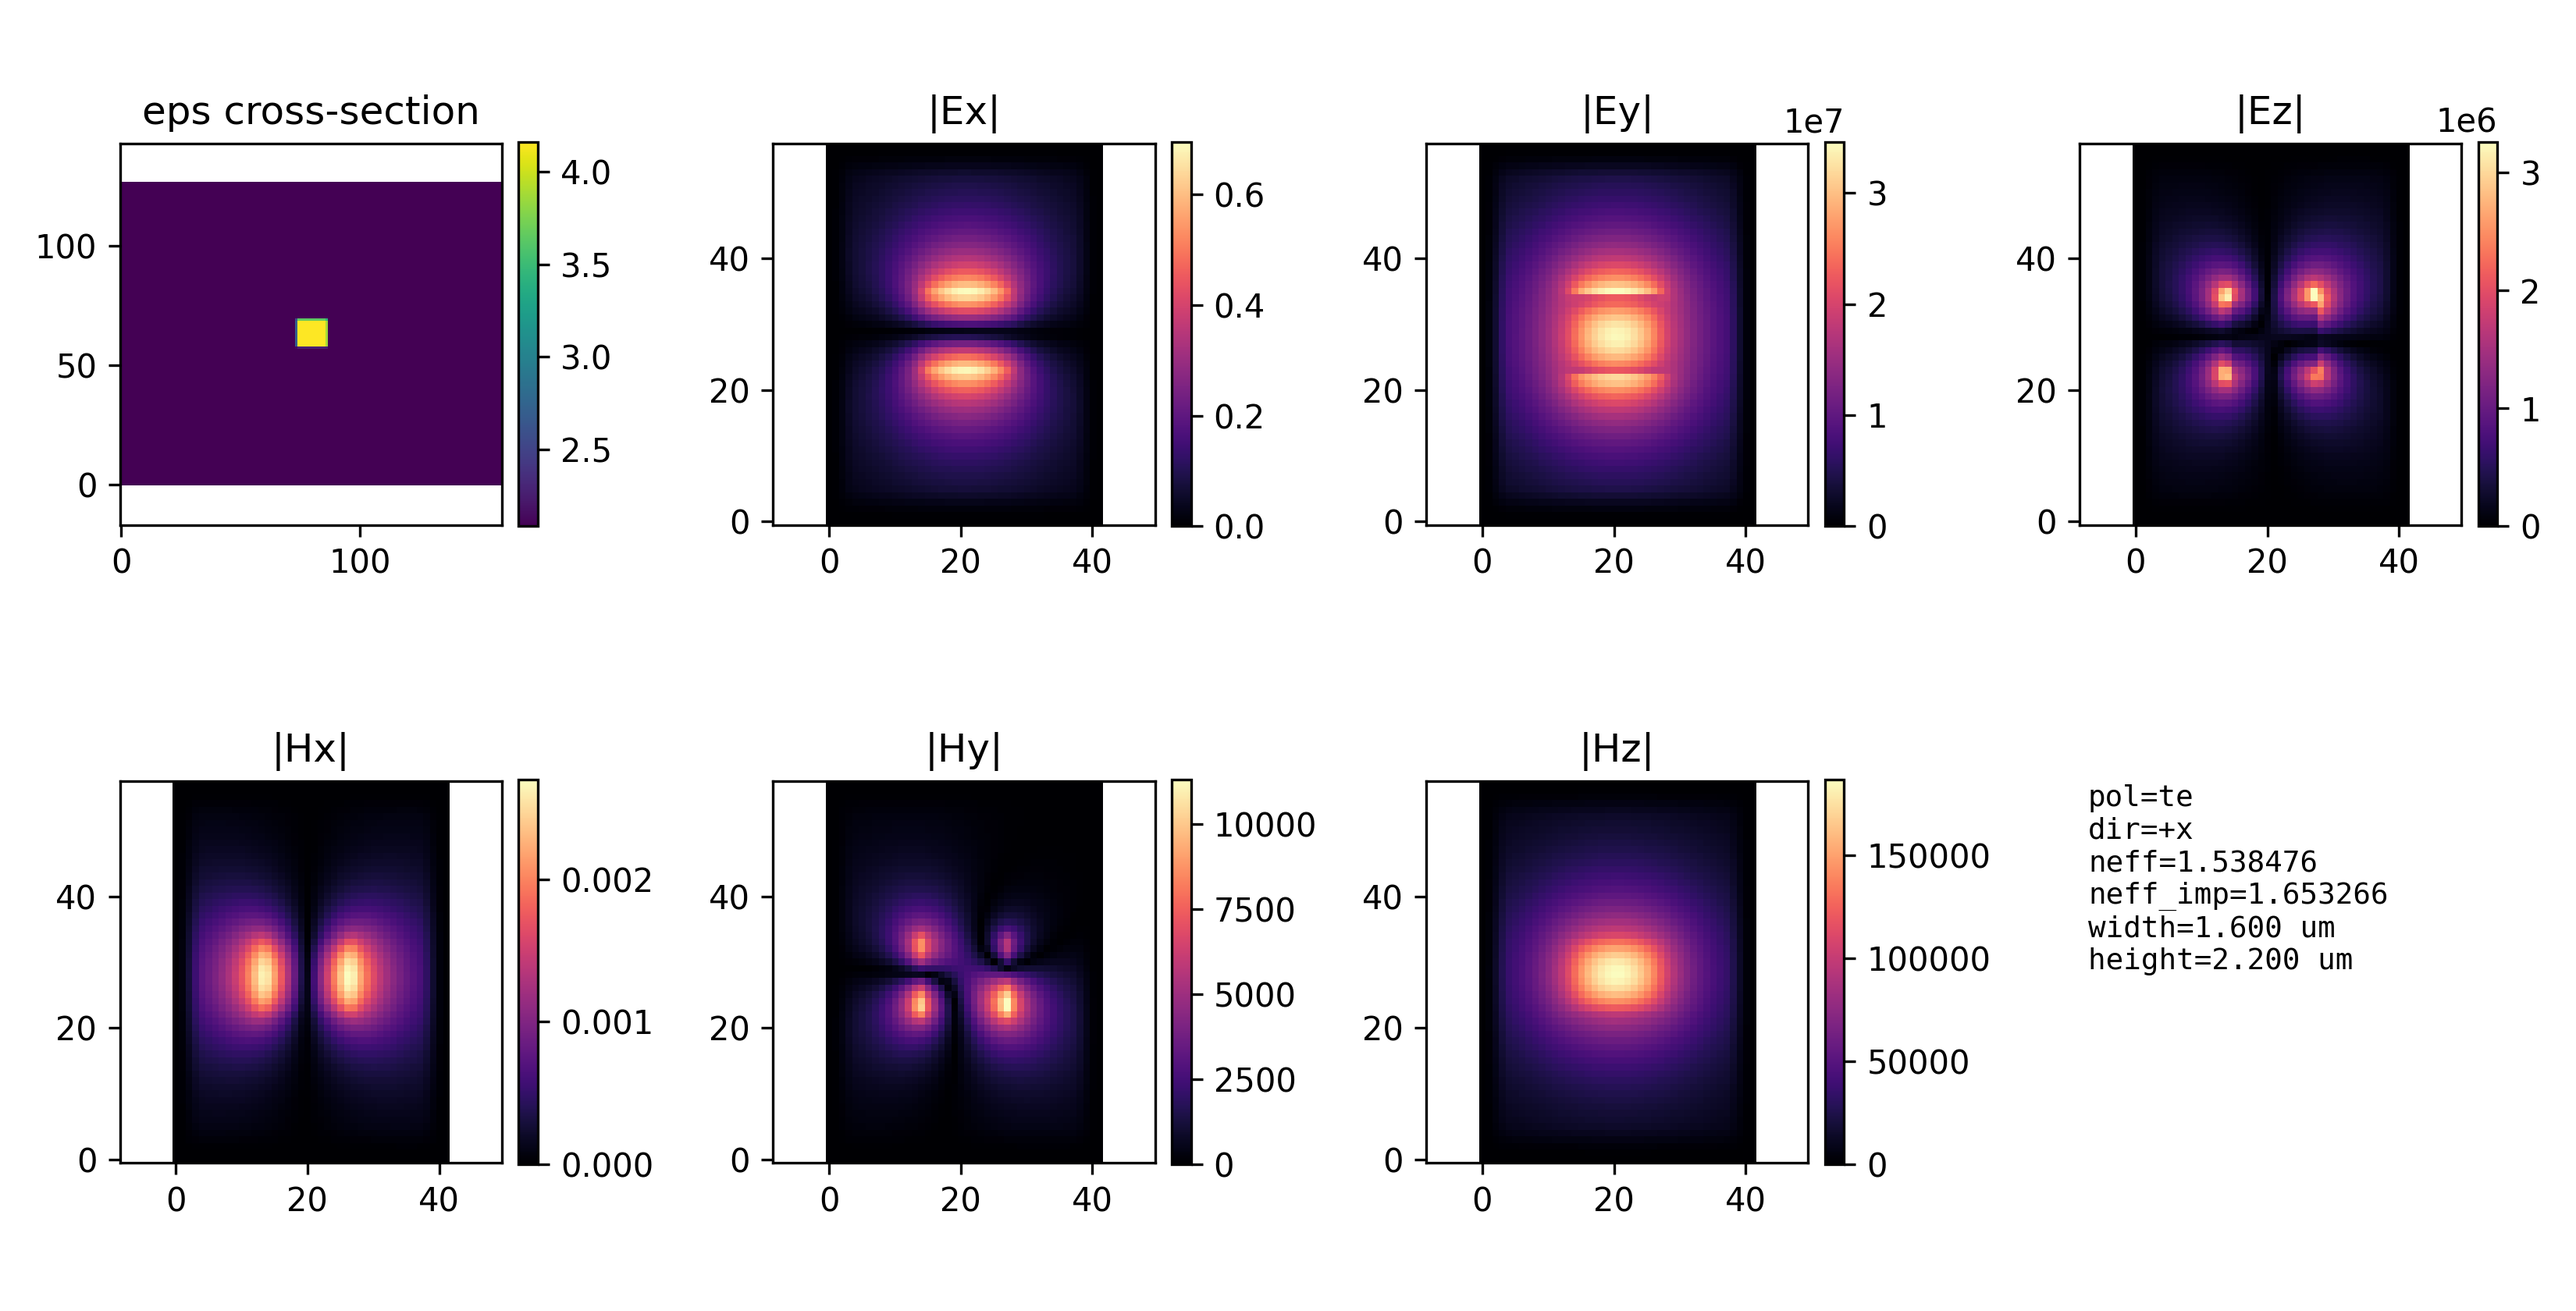
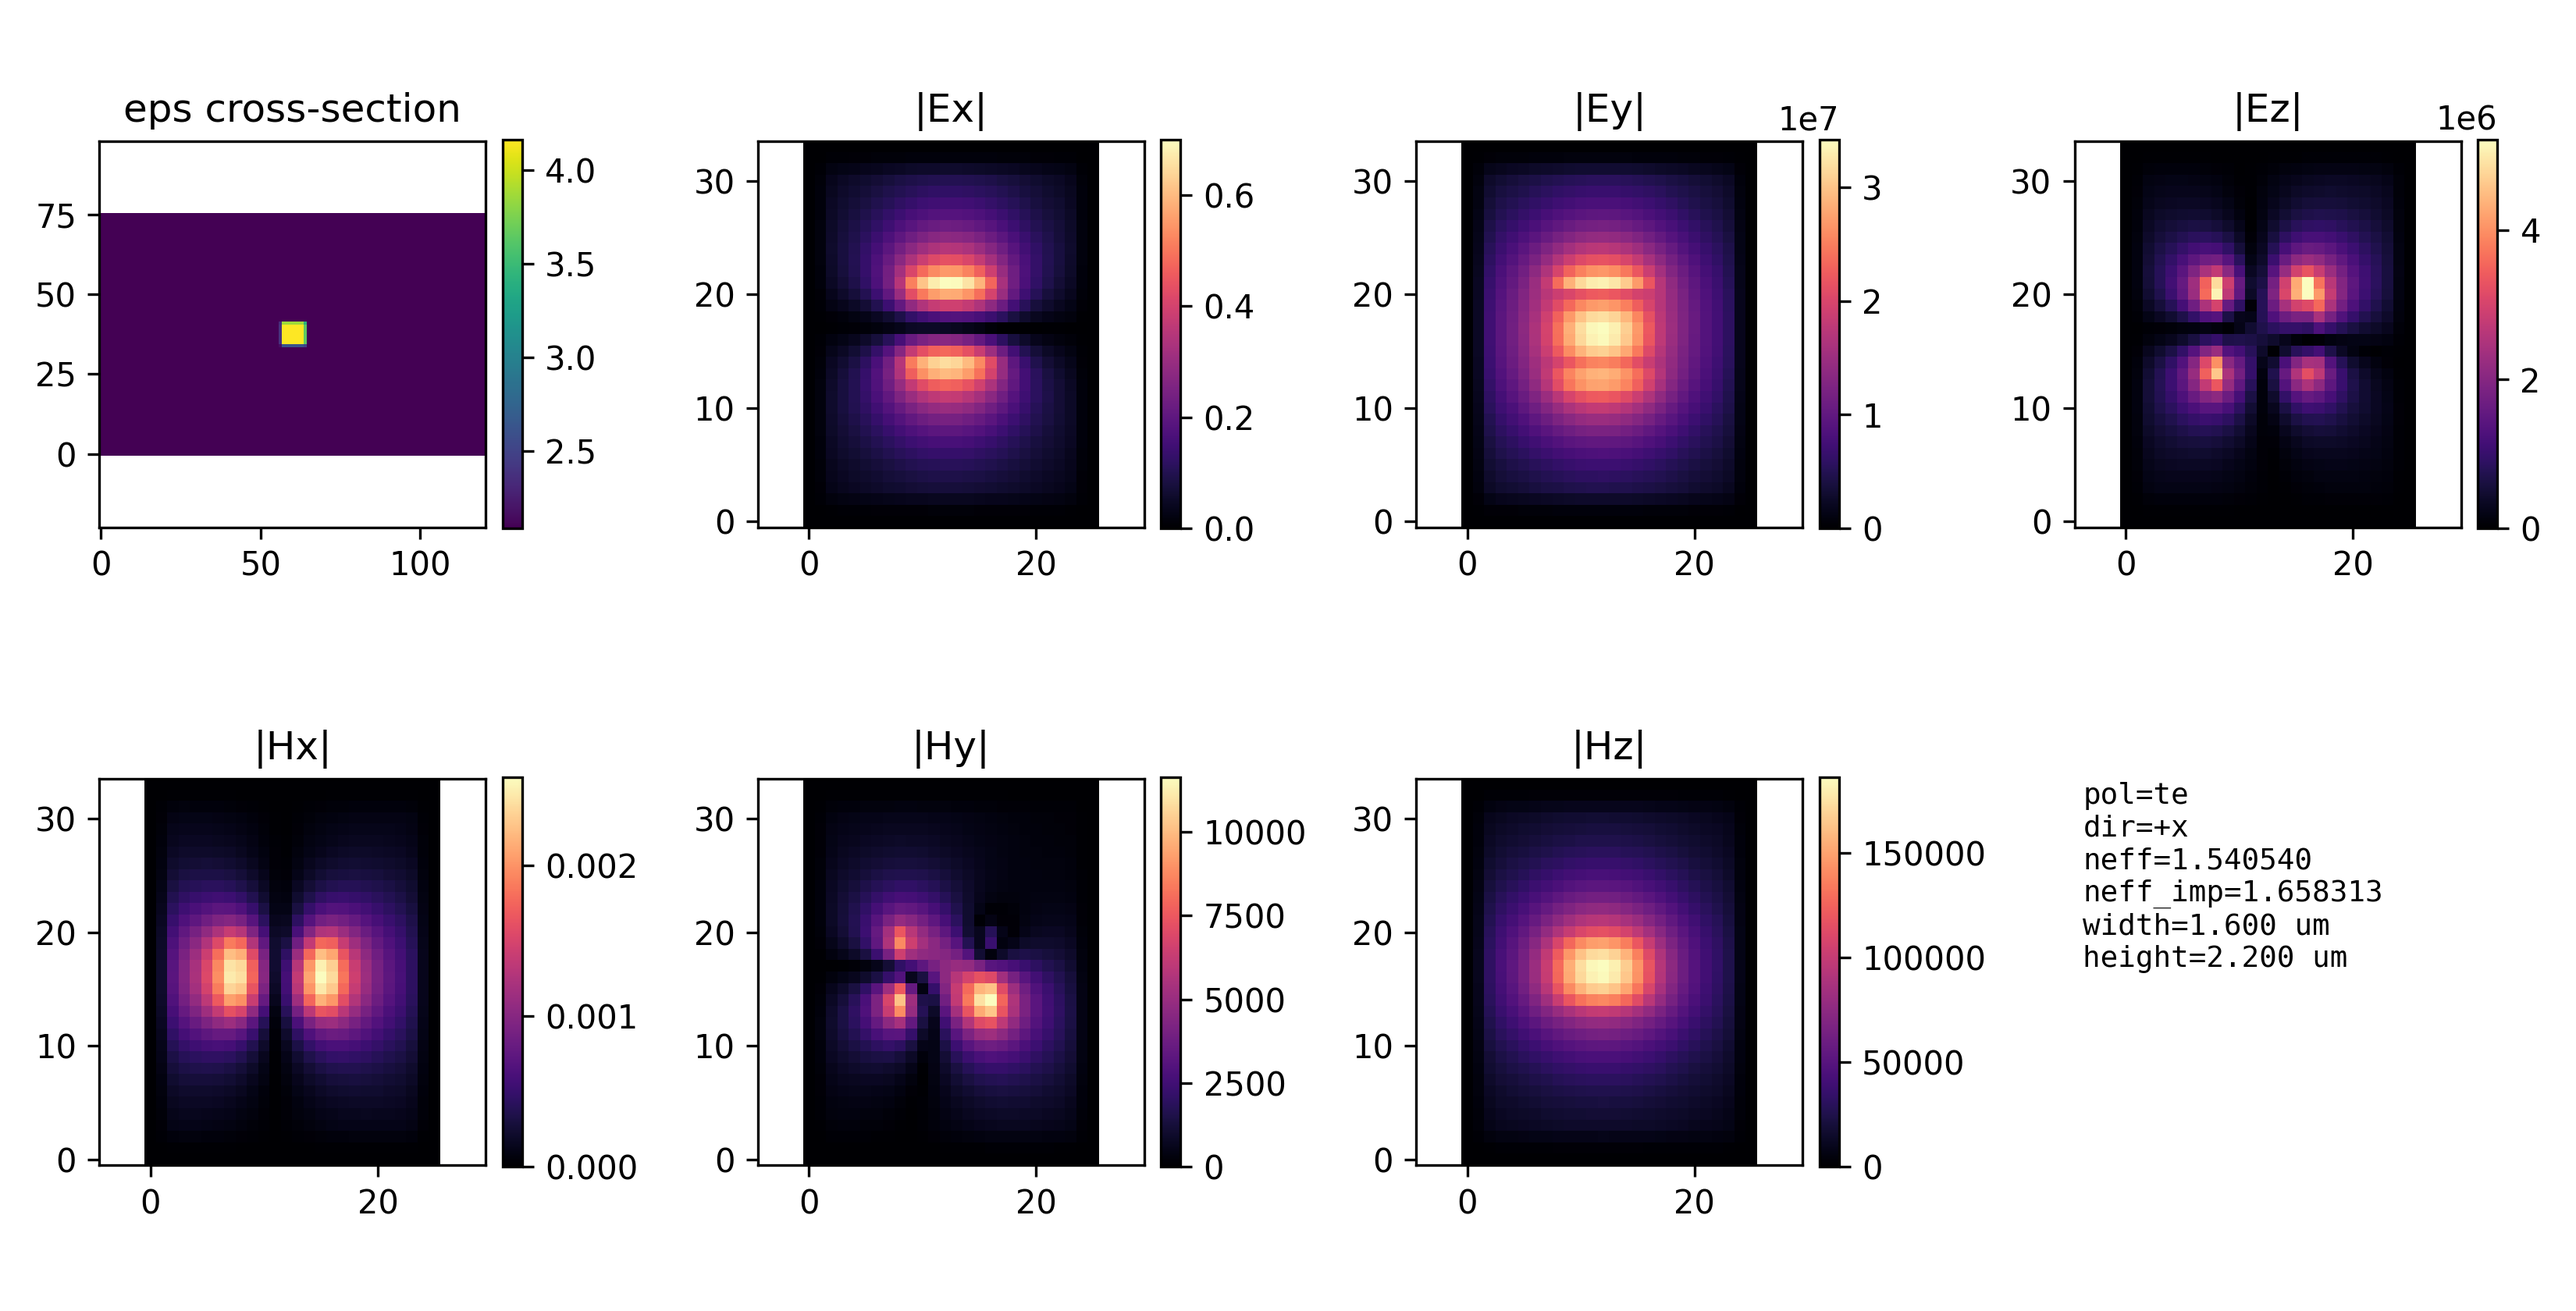
Increase height.

diff --git a/examples/gdsf_to_sax_3d.py b/examples/gdsf_to_sax_3d.py
@@ -160,6 +160,7 @@ def main():
     out_png = out_dir / "gdsf_mmi1x2_3d_sparams.png"
     out_field_png = out_dir / "gdsf_mmi1x2_3d_ey_field_slices.png"
     out_mode_png = out_dir / "gdsf_mmi1x2_3d_mode_source.png"
+    out_signal_png = out_dir / "gdsf_mmi1x2_3d_signal.png"
 
     wl0 = 1.55 * µm
     f0 = LIGHT_SPEED / wl0
@@ -170,7 +171,7 @@ def main():
 
     input_extension = 5.0 * µm
     output_extension = 4.0 * µm
-    y_margin = 1.8 * µm
+    y_margin = 2.6 * µm
 
     clad_below = 2.2 * µm
     clad_above = 2.2 * µm
@@ -183,7 +184,7 @@ def main():
         n_max=n_core,
         dims=3,
         safety_factor=0.96,
-        points_per_wavelength=20,
+        points_per_wavelength=12,
     )
 
     imported_design, ports = gdsf.load(
@@ -305,29 +306,65 @@ def main():
             mon_xy[0], mon_xy[1], mon_y_span, core_zc, mon_z_span, z_min, z_max
         )
 
-    t_ramp = 12.0 / f0
-    dft_t_start = 52.0 / f0
-    dft_t_end = 88.0 / f0
-    t_total = 98.0 / f0
-    time = np.arange(0.0, t_total, dt)
-    envelope = 1.0 - np.exp(-((time / max(t_ramp, 1e-30)) ** 2))
-    source.signal = envelope * np.cos(2.0 * np.pi * f0 * time)
+    # Relatively short Gaussian pulse to launch broadband energy through the device.
+    pulse_t0 = 18.0 / f0
+    pulse_sigma = 4.0 / f0
 
-    dft_cfg = dict(
+    # Place DFT windows around estimated pulse arrival at each monitor plane.
+    # A conservative estimate based on core index is sufficient for this sanity test.
+    v_est = LIGHT_SPEED / n_core
+    t_fwd_center = pulse_t0 + abs(fwd_x - source_x) / max(v_est, 1e-30)
+    # Approximate dominant reflection from the MMI/taper entrance near input port x-position.
+    t_ref_center = pulse_t0 + (abs(x_port - source_x) + abs(x_port - ref_x)) / max(v_est, 1e-30)
+    t_o2_center = pulse_t0 + abs(float(out_planes["o2"][0][0]) - float(source_x)) / max(v_est, 1e-30)
+    t_o3_center = pulse_t0 + abs(float(out_planes["o3"][0][0]) - float(source_x)) / max(v_est, 1e-30)
+    dft_half = 10.0 / f0
+
+    def centered_window(tc):
+        return max(0.0, tc - dft_half), tc + dft_half
+
+    dft_fwd_t_start, dft_fwd_t_end = centered_window(t_fwd_center)
+    dft_ref_t_start, dft_ref_t_end = centered_window(t_ref_center)
+    dft_o2_t_start, dft_o2_t_end = centered_window(t_o2_center)
+    dft_o3_t_start, dft_o3_t_end = centered_window(t_o3_center)
+
+    t_total = max(dft_ref_t_end, dft_o2_t_end, dft_o3_t_end) + 18.0 / f0
+    time = np.arange(0.0, t_total, dt)
+
+    source.signal = np.exp(-0.5 * ((time - pulse_t0) / max(pulse_sigma, 1e-30)) ** 2) * np.cos(
+        2.0 * np.pi * f0 * (time - pulse_t0)
+    )
+    fig_sig, ax_sig = plt.subplots(1, 1, figsize=(6.6, 2.5), dpi=240)
+    ax_sig.plot(time / 1e-15, source.signal, color="black", lw=1.6)
+    ax_sig.set_title("Mode Source Signal (Short Gaussian Pulse)")
+    ax_sig.set_xlabel("time (fs)")
+    ax_sig.set_ylabel("amplitude")
+    ax_sig.grid(alpha=0.3)
+    fig_sig.tight_layout()
+    fig_sig.savefig(out_signal_png, dpi=320)
+    plt.close(fig_sig)
+    print(
+        f"Saved signal figure: {out_signal_png} "
+        f"(t0={pulse_t0*f0:.1f}/f0, sigma={pulse_sigma*f0:.1f}/f0)"
+    )
+
+    dft_cfg_common = dict(
         record_fields=False,
         dft_enabled=True,
         dft_frequencies=[f0],
         dft_components=("Ey", "Ez", "Hy", "Hz"),
         dft_window="hann",
-        dft_t_start=dft_t_start,
-        dft_t_end=dft_t_end,
         dft_record_every_step=True,
     )
+    dft_fwd_cfg = dict(dft_cfg_common, dft_t_start=dft_fwd_t_start, dft_t_end=dft_fwd_t_end)
+    dft_ref_cfg = dict(dft_cfg_common, dft_t_start=dft_ref_t_start, dft_t_end=dft_ref_t_end)
+    dft_o2_cfg = dict(dft_cfg_common, dft_t_start=dft_o2_t_start, dft_t_end=dft_o2_t_end)
+    dft_o3_cfg = dict(dft_cfg_common, dft_t_start=dft_o3_t_start, dft_t_end=dft_o3_t_end)
 
-    m_fwd = Monitor(start=fwd_start, end=fwd_end, name="o1_fwd", **dft_cfg)
-    m_ref = Monitor(start=ref_start, end=ref_end, name="o1_ref", **dft_cfg)
-    m_o2 = Monitor(start=out_planes["o2"][0], end=out_planes["o2"][1], name="o2_out", **dft_cfg)
-    m_o3 = Monitor(start=out_planes["o3"][0], end=out_planes["o3"][1], name="o3_out", **dft_cfg)
+    m_fwd = Monitor(start=fwd_start, end=fwd_end, name="o1_fwd", **dft_fwd_cfg)
+    m_ref = Monitor(start=ref_start, end=ref_end, name="o1_ref", **dft_ref_cfg)
+    m_o2 = Monitor(start=out_planes["o2"][0], end=out_planes["o2"][1], name="o2_out", **dft_o2_cfg)
+    m_o3 = Monitor(start=out_planes["o3"][0], end=out_planes["o3"][1], name="o3_out", **dft_o3_cfg)
 
     flux_y_span = max(1.0 * µm, design.height - 2.0 * pml_xy - 0.15 * µm)
     flux_z_span = max(0.25 * µm, design.depth - 2.0 * pml_z - 0.10 * µm)
@@ -341,14 +378,22 @@ def main():
     out_flux_start, out_flux_end = make_x_plane(
         out_flux_x, src["center"][1], flux_y_span, core_zc, flux_z_span, z_min, z_max
     )
-    m_in_flux = Monitor(start=in_flux_start, end=in_flux_end, name="in_flux", **dft_cfg)
-    m_ref_flux = Monitor(start=ref_flux_start, end=ref_flux_end, name="ref_flux", **dft_cfg)
-    m_out_flux = Monitor(start=out_flux_start, end=out_flux_end, name="out_flux", **dft_cfg)
+    m_in_flux = Monitor(start=in_flux_start, end=in_flux_end, name="in_flux", **dft_fwd_cfg)
+    m_ref_flux = Monitor(start=ref_flux_start, end=ref_flux_end, name="ref_flux", **dft_ref_cfg)
+    m_out_flux = Monitor(start=out_flux_start, end=out_flux_end, name="out_flux", **dft_o2_cfg)
 
     print(
         "Running 3D gdsfactory MMI1x2: "
         f"steps={len(time)}, dx={dx/µm:.4f}um, "
         f"domain=({design.width/µm:.2f},{design.height/µm:.2f},{design.depth/µm:.2f})um"
+    )
+    print(
+        "DFT windows (/f0): "
+        f"fwd=[{dft_fwd_t_start*f0:.1f},{dft_fwd_t_end*f0:.1f}], "
+        f"ref=[{dft_ref_t_start*f0:.1f},{dft_ref_t_end*f0:.1f}], "
+        f"o2=[{dft_o2_t_start*f0:.1f},{dft_o2_t_end*f0:.1f}], "
+        f"o3=[{dft_o3_t_start*f0:.1f},{dft_o3_t_end*f0:.1f}] "
+        f"(pulse_t0={pulse_t0*f0:.1f}, steps={len(time)})"
     )
 
     for name, bounds in [
